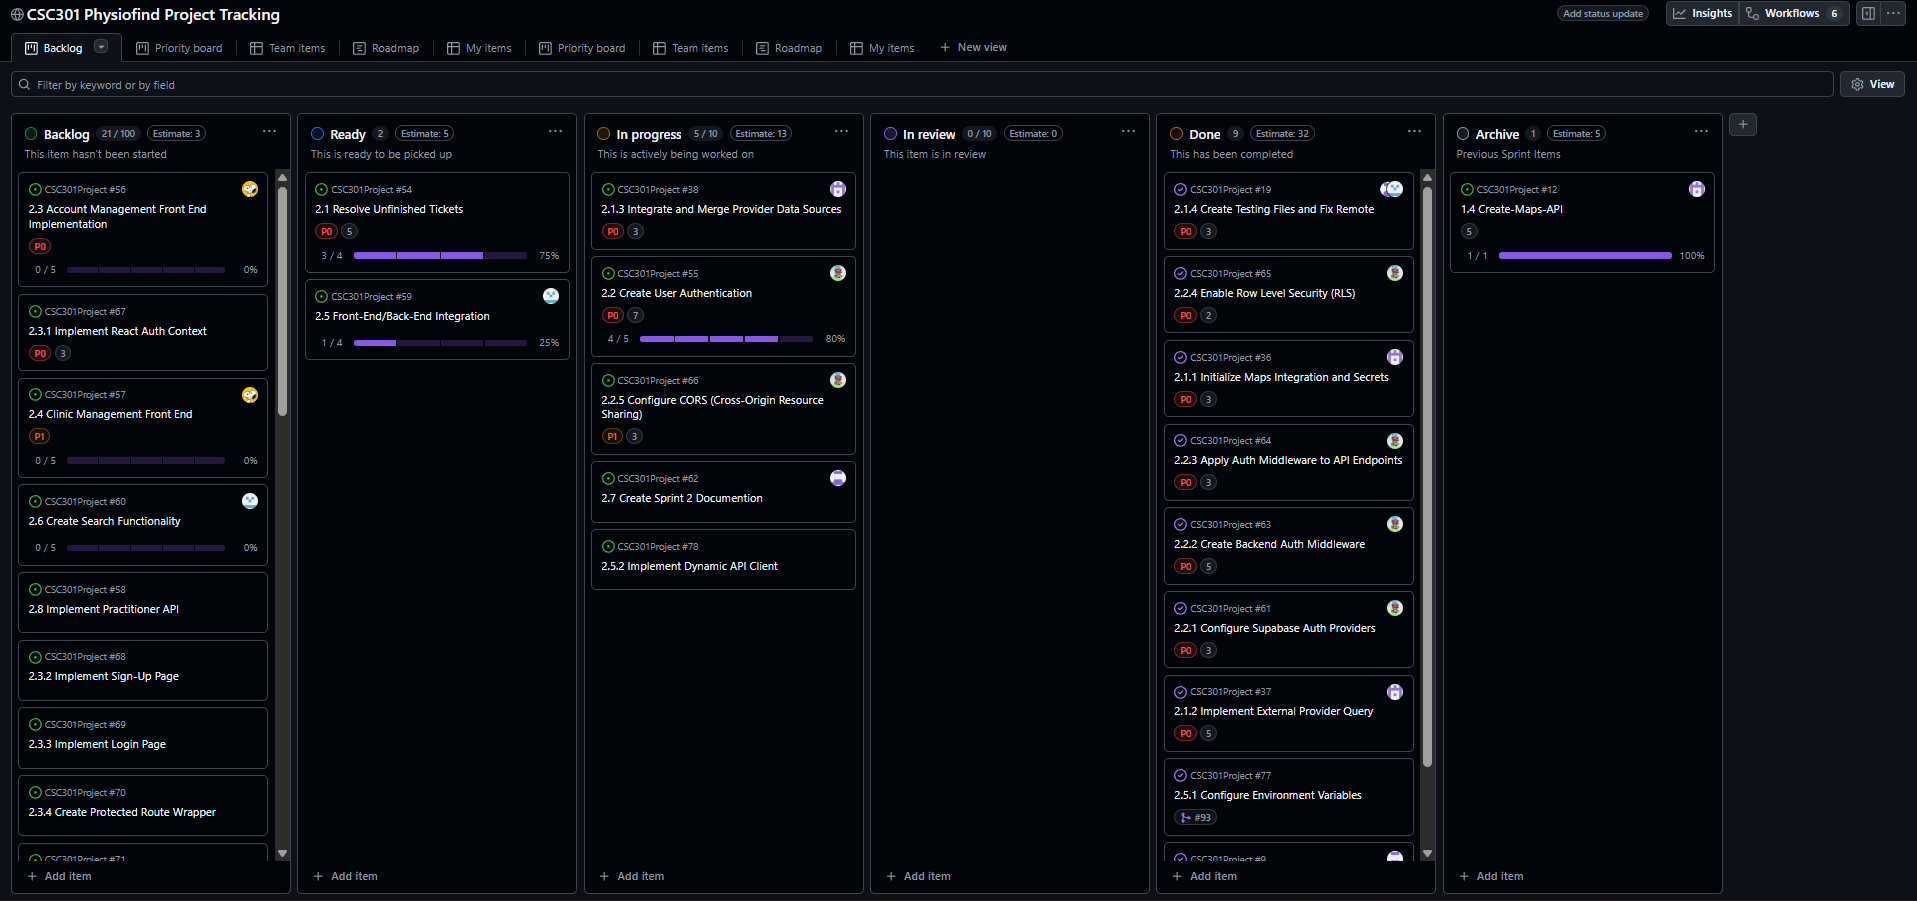
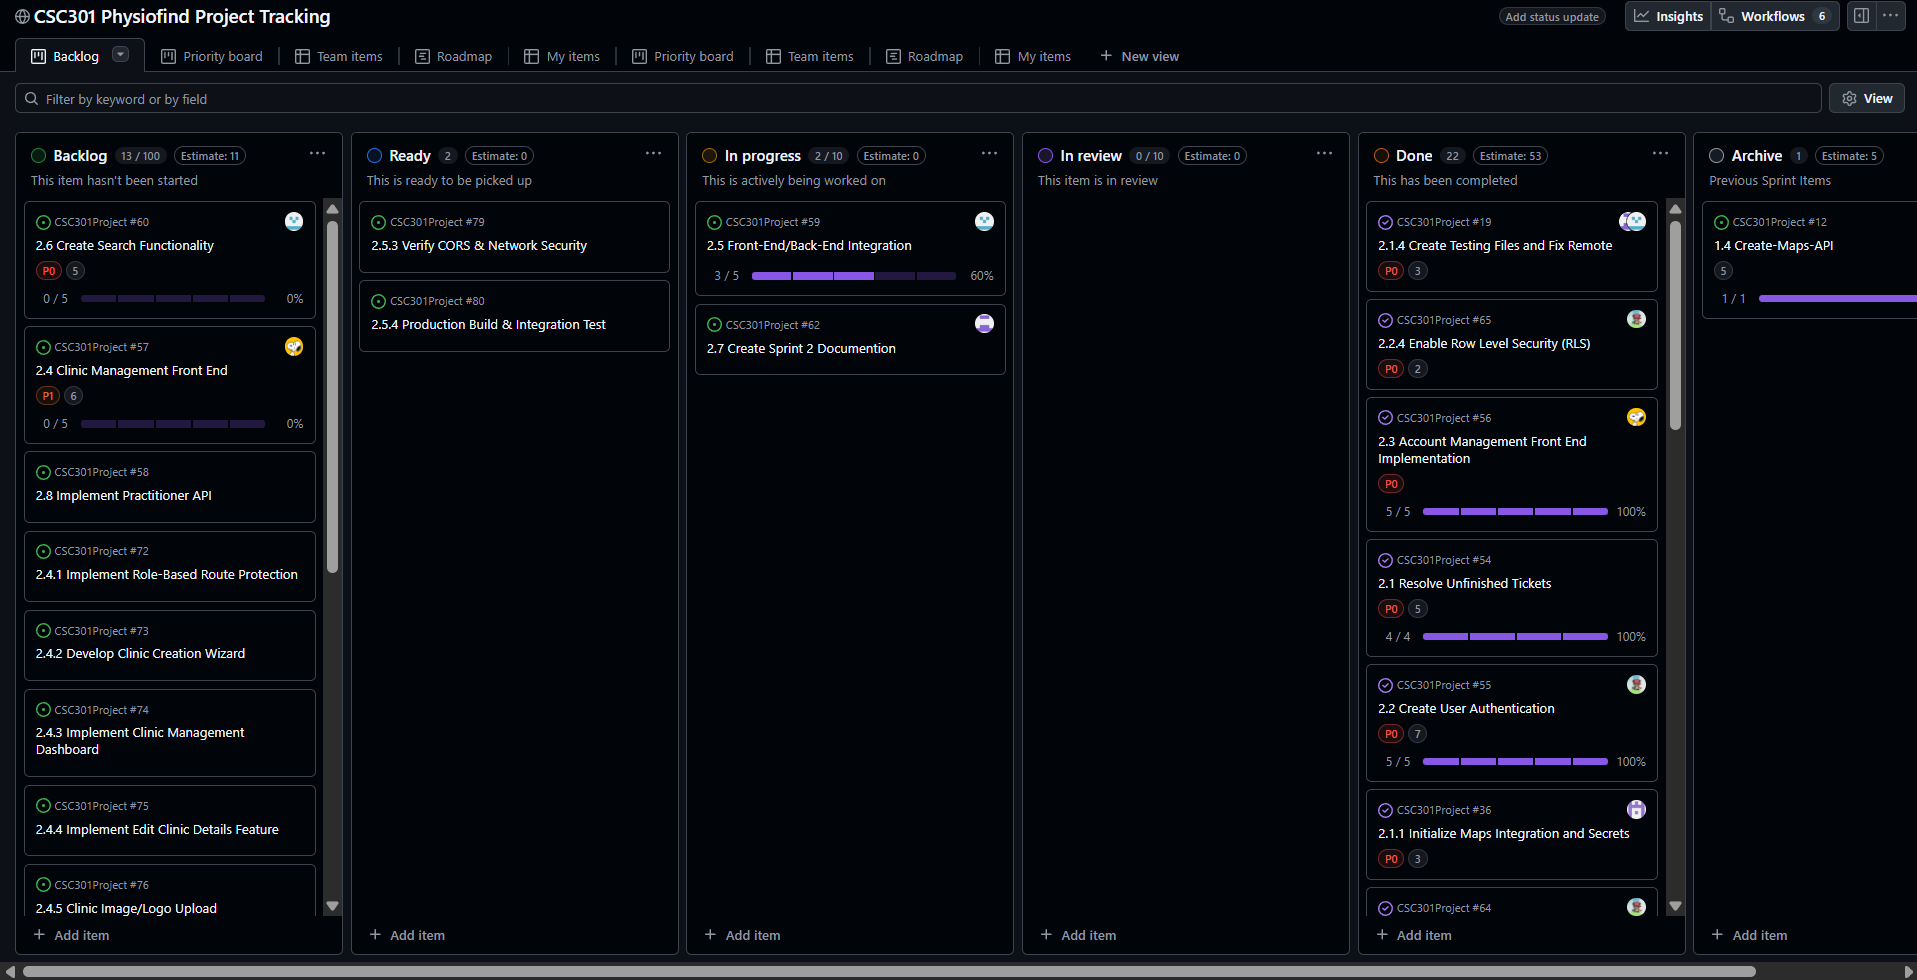
2.7-Updated SprintCompletion.md document to match the project board

diff --git a/sprint2/SprintCompletion.md b/sprint2/SprintCompletion.md
@@ -4,21 +4,39 @@ Analysis of work completed based on the GitHub Project tracking estimates.
 
 ![Project Tracking](./Images/CSC301-PhysioFind-Project-Tracking.png)
 
-## 1. Completed Tasks (from tracking image)
+## 1. Completed Tasks (Done column)
+
 | ID | Title | Points | Status |
 |---|---|---|---|
-| **2.1.4** | Create Testing Files and Fix Remote | 3 | Completed |
-| **2.2.4** | Enable Row Level Security (RLS) | 2 | Completed |
-| **2.1.1** | Initialize Maps Integration and Secrets | 3 | Completed |
-| **2.2.3** | Apply Auth Middleware to API Endpoints | 3 | Completed |
-| **2.2.2** | Create Backend Auth Middleware | 5 | Completed |
-| **2.2.1** | Configure Supabase Auth Providers | 3 | Completed |
-| **2.1.2** | Implement External Provider Query | 5 | Completed |
+| **2.0.1** | Switch from React to Vue | — | Completed |
 | **1.1** | Setup-DB | 8 | Completed |
+| **2.1** | Resolve Unfinished Tickets | 5 | Completed |
+| **2.1.1** | Initialize Maps Integration and Secrets | 3 | Completed |
+| **2.1.2** | Implement External Provider Query | 5 | Completed |
+| **2.1.3** | Integrate and Merge Provider Data Sources | 3 | Completed |
+| **2.1.4** | Create Testing Files and Fix Remote | 3 | Completed |
+| **2.2** | Create User Authentication | 7 | Completed |
+| **2.2.1** | Configure Supabase Auth Providers | 3 | Completed |
+| **2.2.2** | Create Backend Auth Middleware | 5 | Completed |
+| **2.2.3** | Apply Auth Middleware to API Endpoints | 3 | Completed |
+| **2.2.4** | Enable Row Level Security (RLS) | 2 | Completed |
+| **2.2.5** | Configure CORS (Cross-Origin Resource Sharing) | 3 | Completed |
+| **2.3** | Account Management Front End Implementation | — | Completed |
+| **2.3.1** | Implement Auth Context | 3 | Completed |
+| **2.3.2** | Implement Sign-Up Page | — | Completed |
+| **2.3.3** | Implement Login Page | — | Completed |
+| **2.3.4** | Create Protected Route Wrapper | — | Completed |
+| **2.3.5** | Implement User Profile & Settings UI | — | Completed |
+| **2.5.1** | Configure Environment Variables | — | Completed |
+| **2.5.2** | Implement Dynamic API Client | — | Completed |
+| **2.5.5** | Troubleshoot Integration Issues | — | Completed |
+
 ## 2. Calculated Velocity
-- **Points Completed:** 32
-- **Total Points Planned:** 64
-- **Completion Percentage:** **50%**
+
+- **Total Items Completed:** 22
+- **Points Completed:** 53 *(as shown on the board: Done Estimate: 53)*
+- **Total Points Planned:** 106 *(as shown on the board: Backlog Estimate: 106)*
+- **Completion Percentage:** **~50%**
 
 > [!NOTE]  
-> Our team successfully completed 50% of the planned story points, focusing on high-priority (P0) architectural and infrastructure tasks. The remaining 32 points in the backlog and in-progress columns are well-defined for the next phase.
+> Our team completed 22 items totalling **53 story points** this sprint, focusing on high-priority (P0) infrastructure, authentication, and front-end setup tasks. The remaining planned work (In Progress and Backlog) is well-defined for the next phase.
